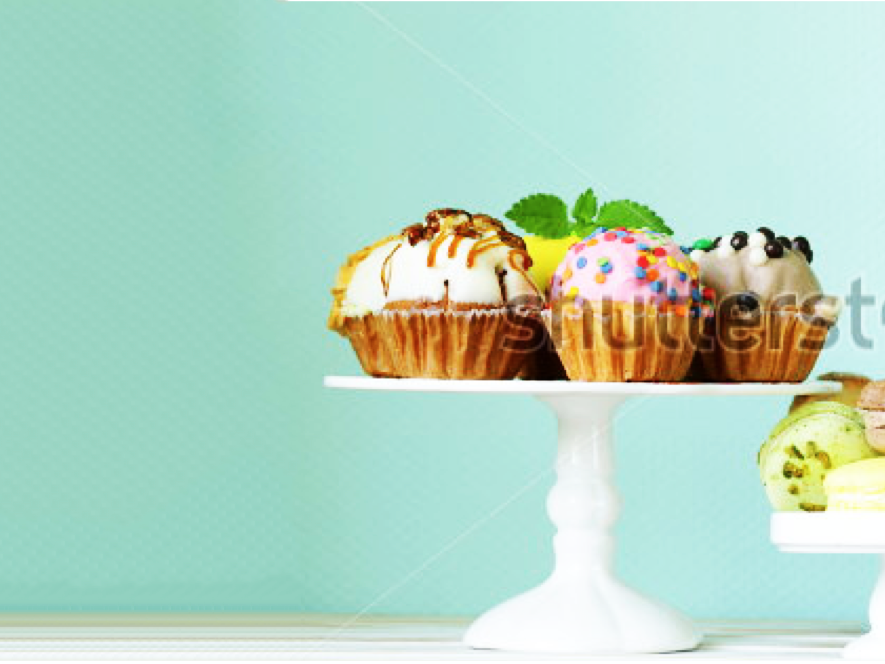
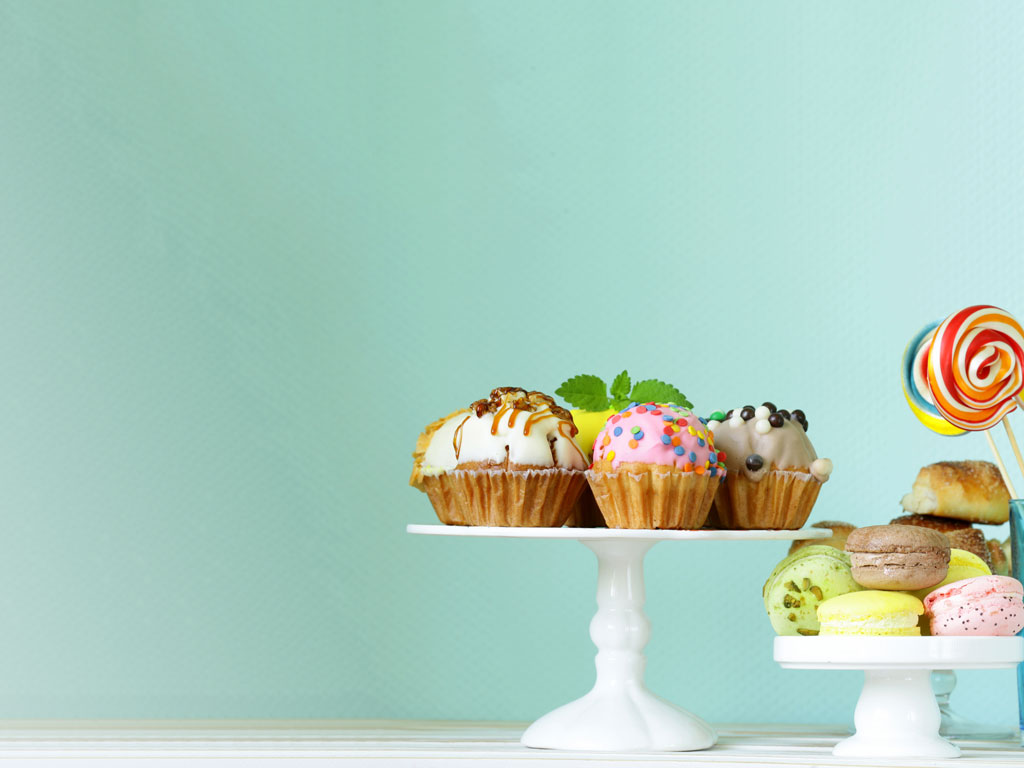
Update spread

diff --git a/issues/spread/data/shopping.md b/issues/spread/data/shopping.md
@@ -3,8 +3,8 @@
     category: "Father's Day"
     title: Gifts for Dad
 
-    cover_url: assets/shopping/cover.png
-    thumb_url: assets/shopping/cover.png
+    cover_url: assets/shopping/cover.jpg
+    thumb_url: assets/shopping/cover.jpg
     
     products:
 

diff --git a/issues/spread/data/story-two/0.md b/issues/spread/data/story-two/0.md
@@ -1,7 +1,7 @@
 ---
     category: Recipe
     title: Cupcakes with Philly Cream Cheese Icing
-    cover_url: "assets/brunch/cup-cake-methods.png"
+    cover_url: "assets/brunch/cup-cake-methods.jpg"
     
     layout:
       type: two-column

diff --git a/issues/spread/data/story-two/1.md b/issues/spread/data/story-two/1.md
@@ -1,7 +1,7 @@
 ---
 
     title:  Style It
-    cover_url: "assets/brunch/styling-stock-1.png"
+    cover_url: "assets/brunch/styling-stock-1.jpg"
     
     layout:
       type: three-column
